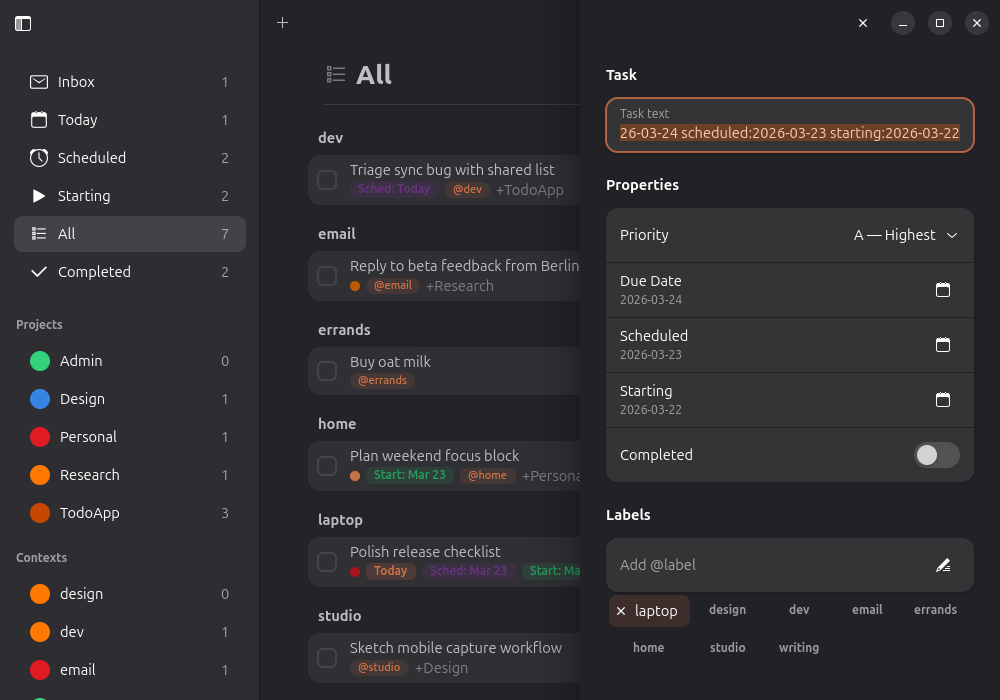
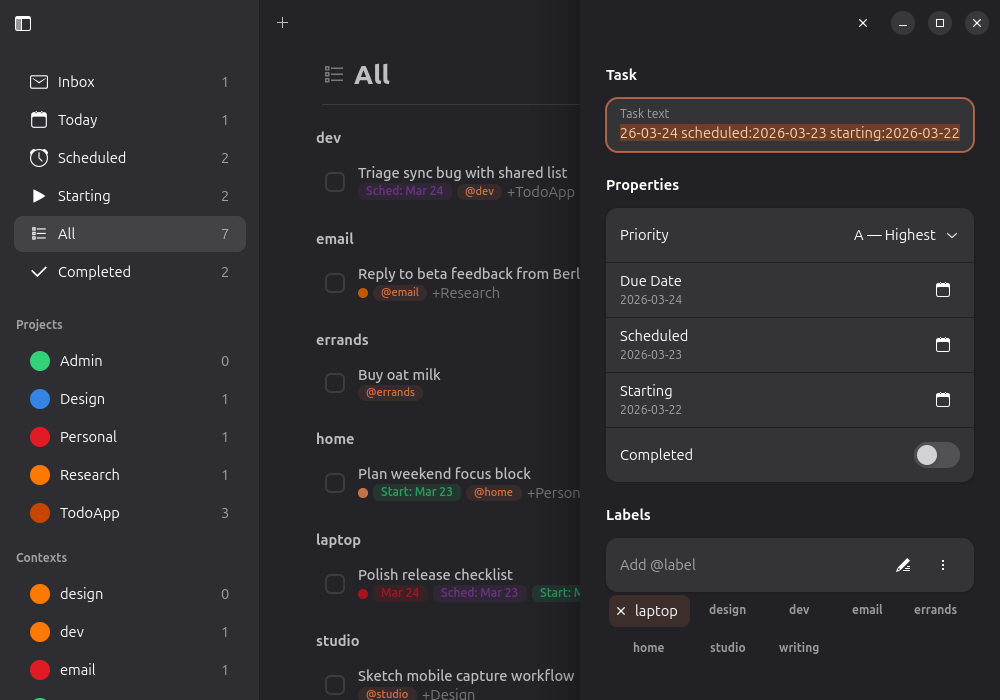
v0.2.1

diff --git a/src/style.css b/src/style.css
@@ -104,6 +104,49 @@
     opacity: 1;
 }
 
+/* ── Task list ───────────────────────────────────────────────────────── */
+
+.task-list {
+    background-color: transparent;
+}
+
+.task-list row.task-row {
+    background-color: transparent;
+    box-shadow: none;
+}
+
+.task-row-box {
+    border-radius: 10px;
+    padding: 6px 12px;
+    transition: background-color 160ms ease;
+}
+
+.task-row-content {
+    margin-top: 0;
+    margin-bottom: 0;
+}
+
+.task-row-title {
+    font-weight: 500;
+}
+
+.task-row-meta {
+    margin-top: 0;
+}
+
+.task-list row.task-row:hover .task-row-box {
+    background-color: alpha(currentColor, 0.04);
+}
+
+.task-list row.task-row:selected .task-row-box,
+.task-list row.task-row:focus-within .task-row-box {
+    background-color: alpha(@accent_color, 0.12);
+}
+
+.task-list row.task-row .task-delete-btn {
+    margin-top: 1px;
+}
+
 /* ── FAB (floating action button) ─────────────────────────────────────── */
 
 .fab-button {
@@ -119,16 +162,33 @@
 
 /* ── Drag-and-drop ───────────────────────────────────────────────────── */
 
-.drop-highlight {
-    background-color: alpha(@accent_color, 0.15);
-    border-radius: 8px;
+.drag-icon-root {
+    background-color: transparent;
 }
 
 .drag-icon {
-    padding: 8px 12px;
-    background-color: @card_bg_color;
-    border-radius: 8px;
+    padding: 10px 12px;
+    background-color: @window_bg_color;
+    border-radius: 10px;
+    border: 1px solid alpha(black, 0.08);
+}
+
+.drag-icon-label {
     font-size: 13px;
+}
+
+.tag-row-box {
+    border-radius: 10px;
+    transition: background-color 160ms ease;
+}
+
+.tag-row.drop-highlight {
+    background-color: alpha(@accent_color, 0.12);
+    border-radius: 10px;
+}
+
+.tag-row.drop-highlight .tag-row-box {
+    background-color: transparent;
 }
 
 /* ── Task delete button hover reveal ──────────────────────────────────── */
@@ -138,7 +198,6 @@
     transition: opacity 200ms;
 }
 
-.task-row:hover .task-delete-btn,
-row:hover .task-delete-btn {
+.task-row:hover .task-delete-btn {
     opacity: 1;
 }

diff --git a/src/todotxt_gui/_detail_panel.py b/src/todotxt_gui/_detail_panel.py
@@ -50,8 +50,12 @@ class TaskDetailPanel(Gtk.Box):
     completed_switch = Gtk.Template.Child()
     labels_flow = Gtk.Template.Child()
     label_entry = Gtk.Template.Child()
+    label_picker_btn = Gtk.Template.Child()
+    label_picker_list = Gtk.Template.Child()
     projects_flow = Gtk.Template.Child()
     project_entry = Gtk.Template.Child()
+    project_picker_btn = Gtk.Template.Child()
+    project_picker_list = Gtk.Template.Child()
     created_row = Gtk.Template.Child()
     completed_date_row = Gtk.Template.Child()
 
@@ -89,6 +93,8 @@ class TaskDetailPanel(Gtk.Box):
         """Update the lists used for autocomplete suggestions."""
         self._all_contexts = contexts
         self._all_projects = projects
+        self._refresh_context_picker()
+        self._refresh_project_picker()
 
     def set_task(self, task: Task | None) -> None:
         """Populate the panel with a task, or clear it."""
@@ -135,9 +141,11 @@ class TaskDetailPanel(Gtk.Box):
 
             # Labels (contexts)
             self._refresh_context_flow()
+            self._refresh_context_picker()
 
             # Projects
             self._refresh_project_flow()
+            self._refresh_project_picker()
 
             # Info
             if task.creation_date:
@@ -297,6 +305,18 @@ class TaskDetailPanel(Gtk.Box):
         self.project_entry.set_text("")
         self._emit_task_update(add_project=proj)
 
+    def _on_add_context_picker(self, ctx: str) -> None:
+        self._emit_task_update(add_context=ctx)
+        popover = self.label_picker_btn.get_popover()
+        if popover is not None:
+            popover.popdown()
+
+    def _on_add_project_picker(self, proj: str) -> None:
+        self._emit_task_update(add_project=proj)
+        popover = self.project_picker_btn.get_popover()
+        if popover is not None:
+            popover.popdown()
+
     def _refresh_context_flow(self, *, filter_text: str = "") -> None:
         if self._task is None:
             return
@@ -309,6 +329,16 @@ class TaskDetailPanel(Gtk.Box):
             ),
             on_remove=self._on_remove_context,
             on_add=self._on_add_context_suggestion,
+        )
+
+    def _refresh_context_picker(self) -> None:
+        self._rebuild_picker_list(
+            self.label_picker_list,
+            self.label_picker_btn,
+            self._all_contexts,
+            self._task.contexts if self._task is not None else (),
+            "@",
+            self._on_add_context_picker,
         )
 
     def _refresh_project_flow(self, *, filter_text: str = "") -> None:
@@ -324,6 +354,59 @@ class TaskDetailPanel(Gtk.Box):
             on_remove=self._on_remove_project,
             on_add=self._on_add_project_suggestion,
         )
+
+    def _refresh_project_picker(self) -> None:
+        self._rebuild_picker_list(
+            self.project_picker_list,
+            self.project_picker_btn,
+            self._all_projects,
+            self._task.projects if self._task is not None else (),
+            "+",
+            self._on_add_project_picker,
+        )
+
+    def _rebuild_picker_list(
+        self,
+        listbox: Gtk.ListBox,
+        button: Gtk.MenuButton,
+        available: list[str],
+        current: tuple[str, ...],
+        prefix: str,
+        on_add: Callable[[str], None],
+    ) -> None:
+        listbox.remove_all()
+        options = [item for item in available if item not in current]
+        button.set_sensitive(bool(options) and self._task is not None)
+
+        if not options:
+            row = Gtk.Box(orientation=Gtk.Orientation.HORIZONTAL)
+            row.set_margin_start(12)
+            row.set_margin_end(12)
+            row.set_margin_top(10)
+            row.set_margin_bottom(10)
+            label = Gtk.Label(label="No suggestions available", xalign=0.0)
+            label.add_css_class("dim-label")
+            row.append(label)
+            listbox.append(row)
+            return
+
+        for item in options:
+            add_btn = Gtk.Button(label=f"{prefix}{item}")
+            add_btn.add_css_class("flat")
+            add_btn.set_halign(Gtk.Align.FILL)
+            add_btn.set_hexpand(True)
+            add_btn.connect("clicked", self._make_picker_handler(on_add, item))
+            listbox.append(add_btn)
+
+    def _make_picker_handler(
+        self,
+        callback: Callable[[str], None],
+        item: str,
+    ) -> Callable[[object], None]:
+        def handler(_btn: object) -> None:
+            callback(item)
+
+        return handler
 
     def _emit_task_update(self, **changes: str | None) -> None:
         if self._task is None or self._on_task_updated is None:

diff --git a/src/todotxt_gui/_task_row.py b/src/todotxt_gui/_task_row.py
@@ -8,7 +8,8 @@ import gi
 
 gi.require_version("Gtk", "4.0")
 gi.require_version("Adw", "1")
-from gi.repository import Gdk, GObject, Gtk
+gi.require_version("Pango", "1.0")
+from gi.repository import Gdk, GObject, Gtk, Pango
 from todotxt_lib import Task
 
 from ._task_row_state import build_task_row_display
@@ -45,6 +46,7 @@ class TaskRow(Gtk.ListBoxRow):
         show_raw_text: bool = True,
     ) -> None:
         super().__init__()
+        self.add_css_class("task-row")
         self.task = task
         self._on_complete = on_complete
         self._on_delete = on_delete
@@ -116,9 +118,21 @@ class TaskRow(Gtk.ListBoxRow):
         drag: Gdk.Drag,
     ) -> None:
         icon = Gtk.DragIcon.get_for_drag(drag)
-        label = Gtk.Label(label=self.task.text)
-        label.add_css_class("drag-icon")
-        icon.set_child(label)
+        icon.add_css_class("drag-icon-root")
+
+        box = Gtk.Box(orientation=Gtk.Orientation.HORIZONTAL)
+        box.add_css_class("drag-icon")
+        box.add_css_class("task-row-box")
+        box.set_overflow(Gtk.Overflow.HIDDEN)
+
+        label = Gtk.Label(label=self.task.text, xalign=0.0)
+        label.add_css_class("drag-icon-label")
+        label.add_css_class("task-row-title")
+        label.set_ellipsize(Pango.EllipsizeMode.END)
+        label.set_max_width_chars(36)
+        box.append(label)
+
+        icon.set_child(box)
 
     def _on_checked(self, _check: object) -> None:
         self._on_complete(self.task)

diff --git a/src/todotxt_gui/_sidebar.py b/src/todotxt_gui/_sidebar.py
@@ -70,6 +70,7 @@ class TagRow(Gtk.ListBoxRow):
         on_task_dropped: TaskDroppedHandler | None = None,
     ) -> None:
         super().__init__()
+        self.add_css_class("tag-row")
         self.tag_name = tag_name
         self.tag_kind = tag_kind
         self._on_task_dropped = on_task_dropped
@@ -78,10 +79,15 @@ class TagRow(Gtk.ListBoxRow):
 
     def _build(self, count: int) -> None:
         box = Gtk.Box(orientation=Gtk.Orientation.HORIZONTAL, spacing=10)
+        box.add_css_class("tag-row-box")
+        box.set_hexpand(True)
+        box.set_halign(Gtk.Align.FILL)
         box.set_margin_start(8)
         box.set_margin_end(8)
         box.set_margin_top(6)
         box.set_margin_bottom(6)
+        self.set_hexpand(True)
+        self.set_halign(Gtk.Align.FILL)
         self.set_child(box)
 
         # Colored circle

diff --git a/src/todotxt_gui/_content.py b/src/todotxt_gui/_content.py
@@ -82,7 +82,7 @@ class TaskSection(Gtk.Box):
 
         list_box = Gtk.ListBox()
         list_box.set_selection_mode(Gtk.SelectionMode.SINGLE)
-        list_box.add_css_class("boxed-list")
+        list_box.add_css_class("task-list")
         if self._on_task_selected is not None:
             list_box.connect("row-activated", self._on_row_activated)
 

diff --git a/tests/gui/test_app.py b/tests/gui/test_app.py
@@ -14,7 +14,7 @@ from todotxt_lib import parse_task
 
 class TestVersionMetadata(unittest.TestCase):
     def test_runtime_version_matches_release(self) -> None:
-        self.assertEqual(__version__, "0.2.0")
+        self.assertEqual(__version__, "0.2.1")
 
 
 class TestFilePaths(unittest.TestCase):

diff --git a/src/todotxt_gui/__init__.py b/src/todotxt_gui/__init__.py
@@ -1,3 +1,3 @@
 """Runtime metadata for the todo.txt GUI package."""
 
-__version__ = "0.2.0"
+__version__ = "0.2.1"

diff --git a/README.md b/README.md
@@ -185,11 +185,19 @@ tests/
 - **Native appearance.** The application uses libadwaita widgets and built-in
   CSS classes wherever possible. Custom CSS is limited to elements with no
   Adwaita equivalent: project circle colors, priority dots, due-date badges,
-  context chips, and the FAB button.
+  context chips, subtle task-row states, drag previews, and the FAB button.
+
+- **Flat task lists over card chrome.** The main task view uses quiet,
+  list-like rows instead of per-task cards, to stay closer to GNOME's native
+  content views and to keep grouped task sections readable.
 
 - **Blueprint for layout, Python for logic.** Static widget trees are declared
   in `.blp` files. Dynamic content (task lists, filter counts, chip creation)
   is handled in Python.
+
+- **Multiple assignment paths.** Projects and contexts can be assigned through
+  drag-and-drop, direct typing, inline suggestions, or quick pickers in the
+  detail panel, so the feature remains usable with different input styles.
 
 - **Plain-text storage.** Your data lives in standard `todo.txt` and `done.txt`
   files — always portable, always yours.
